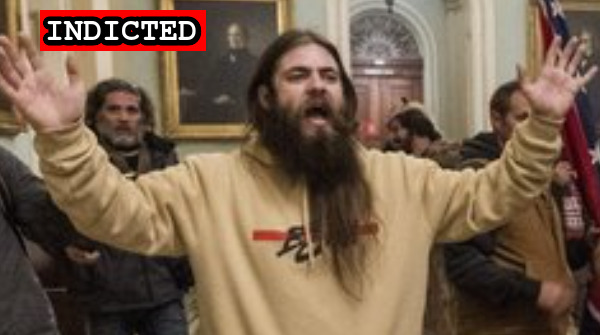
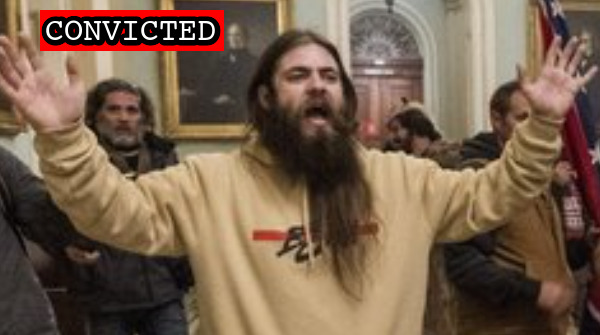
Latest schedule

Changed region(s): [[0.06, 0.0299, 0.39, 0.1493]]

diff --git a/docs/_suspects/riley-williams.md b/docs/_suspects/riley-williams.md
@@ -4,11 +4,11 @@ lastName: Williams
 hashtag: GreenShirtStairmaster
 aka:
 residence: Pennsylvania
-status: Indicted
+status: Convicted
 date: 2021-01-17
 charged: 2021-01-17
 indicted: 2021-10-06
-convicted:
+convicted: 2022-11-21
 acquitted:
 sentenced:
 dismissed:
@@ -16,8 +16,8 @@ deceased:
 plea_hearing:
 trial_date: 2022-11-07
 trial_type: Jury Trial
-sentencing:
-status_conference:
+sentencing: 2023-02-22
+status_conference: 2022-12-05
 age: 22
 occupation:
 affiliations:
@@ -31,7 +31,7 @@ raid:
 perpwalk:
 quote: "Upstairs, upstairs, upstairs"
 title: Riley Williams charged on January 17, 2021
-description: Click for latest case details. Suspects considered innocent until proven guilty.
+description: Convicted on November 21, 2022. Click for latest case details.
 author: seditiontrack
 layout: suspect
 published: true
@@ -40,8 +40,33 @@ caseName: USA v. WILLIAMS
 judge: Amy B. Jackson
 videos:
 charges:
+  - code: 18 USC § 231(a)(3)
+    title: Obstruction of Law Enforcement During Civil Disorder
+    url: https://www.law.cornell.edu/uscode/text/18/231
+    felony: true
+  - code: 18 USC § 111(a)(1)
+    title: Assaulting, resisting, or impeding certain officers or employees
+    url: https://www.law.cornell.edu/uscode/text/18/111
+    felony: true
+  - code: 18 USC § 1752(a)(1)
+    title: Entering a restricted building or grounds
+    url: https://www.law.cornell.edu/uscode/text/18/1752
+    felony: false
+  - code: 18 USC § 1752(a)(2)
+    title: Disorderly and disruptive conduct in a restricted building or grounds
+    url: https://www.law.cornell.edu/uscode/text/18/1752
+    felony: false
+  - code: 40 USC § 5104(e)(2)(D)
+    title: Disorderly Conduct in a Capitol Building
+    url: https://www.law.cornell.edu/uscode/text/40/5104
+    felony: false
+  - code: 40 USC § 5104(e)(2)(G)
+    title: Parading, demonstrating or picketing in a Capitol building
+    url: https://www.law.cornell.edu/uscode/text/40/5104
+    felony: false
 sentence:
 ---
+
 - [News Report](https://www.npr.org/sections/insurrection-at-the-capitol/2021/01/18/957979421/fbi-seeking-woman-who-may-have-stolen-speaker-pelosis-laptop)
 - [Statement of Facts](https://www.justice.gov/opa/page/file/1357051/download)
 - [Complaint](https://www.justice.gov/opa/page/file/1357056/download)

diff --git a/docs/_suspects/russell-alford.md b/docs/_suspects/russell-alford.md
@@ -40,25 +40,24 @@ caseName: USA v. ALFORD
 judge: Tanya S. Chutkan
 videos:
 charges:
-  - code: 18 USC § 1752(a)(1)
-    title: Entering a restricted building or grounds
-    url: https://www.law.cornell.edu/uscode/text/18/1752
-    felony: false
-  - code: 18 USC § 1752(a)(2)
-    title: Disorderly and disruptive conduct in a restricted building or grounds
-    url: https://www.law.cornell.edu/uscode/text/18/1752
-    felony: false
-  - code: 40 USC § 5104(e)(2)(D)
-    title: Disorderly Conduct in a Capitol Building
-    url: https://www.law.cornell.edu/uscode/text/40/5104
-    felony: false
-  - code: 40 USC § 5104(e)(2)(G)
-    title: Parading, demonstrating or picketing in a Capitol building
-    url: https://www.law.cornell.edu/uscode/text/40/5104
-    felony: false
+- code: 18 USC § 1752(a)(1)
+  title: Entering a restricted building or grounds
+  url: https://www.law.cornell.edu/uscode/text/18/1752
+  felony: false
+- code: 18 USC § 1752(a)(2)
+  title: Disorderly and disruptive conduct in a restricted building or grounds
+  url: https://www.law.cornell.edu/uscode/text/18/1752
+  felony: false
+- code: 40 USC § 5104(e)(2)(D)
+  title: Disorderly Conduct in a Capitol Building
+  url: https://www.law.cornell.edu/uscode/text/40/5104
+  felony: false
+- code: 40 USC § 5104(e)(2)(G)
+  title: Parading, demonstrating or picketing in a Capitol building
+  url: https://www.law.cornell.edu/uscode/text/40/5104
+  felony: false
 sentence:
 ---
-
 - [News Report](https://www.al.com/news/birmingham/2021/03/i-wondered-when-yall-were-going-to-show-up-7th-alabamian-arrested-in-us-capitol-riot.html)
 - [Statement of Facts](https://www.justice.gov/usao-dc/case-multi-defendant/file/1393326/download)
 - [Incriminating Evidence (VIDEO)](https://www.youtube.com/watch?v=19phOT7WTyc)

diff --git a/docs/_suspects/william-watson.md b/docs/_suspects/william-watson.md
@@ -4,11 +4,11 @@ lastName: Watson
 hashtag: WilliamWatson
 aka:
 residence: Alabama
-status: Indicted
+status: Convicted
 date: 2021-01-11
 charged: 2021-01-11
 indicted: 2021-08-06
-convicted:
+convicted: 2022-11-18
 acquitted:
 sentenced:
 dismissed:
@@ -16,7 +16,7 @@ deceased:
 plea_hearing:
 trial_date: 2022-11-18
 trial_type: Stipulated Bench Trial
-sentencing:
+sentencing: 2023-03-09
 status_conference:
 age: 23
 occupation:
@@ -31,7 +31,7 @@ raid:
 perpwalk:
 quote:
 title: William Watson charged on January 11, 2021
-description: Click for latest case details. Suspects considered innocent until proven guilty.
+description: Convicted on November 18, 2022. Click for latest case details.
 author: seditiontrack
 layout: suspect
 published: true
@@ -40,9 +40,17 @@ caseName: USA v. WATSON
 judge: Reggie B. Walton
 videos:
 charges:
+  - code: 18 USC § 1512(c)(2)
+    title: Obstruction of an Official Proceeding
+    url: https://www.law.cornell.edu/uscode/text/18/1512
+    felony: true
+  - code: 18 USC § 1752(a)(2) and b(1)(A)
+    title: Disorderly and Disruptive Conduct in a Restricted Building or Grounds (w/a deadly weapon)
+    url: https://www.law.cornell.edu/uscode/text/18/1752
+    felony: true
 sentence:
 ---
 
 - [News Report](https://www.wate.com/news/auburn-man-in-federal-custody-following-u-s-capitol-riot/)
-- [Statement of Facts](https://www.justice.gov/usao-dc/case-multi-defendant/file/1553301/download)
+- [Statement of Facts (Stipulated)](https://www.justice.gov/usao-dc/case-multi-defendant/file/1553301/download)
 - [Indictment](https://www.justice.gov/usao-dc/case-multi-defendant/file/1423471/download)

diff --git a/docs/_suspects/chase-allen.md b/docs/_suspects/chase-allen.md
@@ -16,7 +16,7 @@ deceased:
 plea_hearing: 2022-11-22
 trial_date:
 trial_type:
-sentencing:
+sentencing: 2023-03-09
 status_conference: 2022-11-10
 age:
 occupation:
@@ -37,16 +37,15 @@ layout: suspect
 published: true
 caseNumber: 22-cr-0361
 caseName: USA v. ALLEN
-judge: G. M. Harvey
+judge: Dabney L. Friedrich
 videos:
 charges:
-  - code: 40 USC § 5104(e)(2)(F)
-    title: Act of physical violence on Capitol grounds
-    url: https://www.law.cornell.edu/uscode/text/40/5104
-    felony: false
+- code: 40 USC § 5104(e)(2)(F)
+  title: Act of physical violence on Capitol grounds
+  url: https://www.law.cornell.edu/uscode/text/40/5104
+  felony: false
 sentence:
 ---
-
 - [News Report](https://boston.cbslocal.com/2021/06/30/capitol-riot-arrests-fbi-boston-noah-bacon-chase-allen-somerville-seekonk/)
 - [Statement of Facts](https://www.justice.gov/usao-dc/case-multi-defendant/file/1408341/download)
 - [Information](https://www.justice.gov/usao-dc/case-multi-defendant/file/1553451/download)

diff --git a/docs/_suspects/eric-gerwatowski.md b/docs/_suspects/eric-gerwatowski.md
@@ -16,7 +16,7 @@ deceased:
 plea_hearing: 2022-11-22
 trial_date:
 trial_type:
-sentencing:
+sentencing: 2023-03-02
 status_conference:
 age: 31
 occupation:
@@ -40,13 +40,12 @@ caseName: USA v. GERWATOWSKI
 judge: Jia M. Cobb
 videos:
 charges:
-  - code: 18 USC § 231(a)(3)
-    title: Obstruction of Law Enforcement During Civil Disorder
-    url: https://www.law.cornell.edu/uscode/text/18/231
-    felony: true
+- code: 18 USC § 231(a)(3)
+  title: Obstruction of Law Enforcement During Civil Disorder
+  url: https://www.law.cornell.edu/uscode/text/18/231
+  felony: true
 sentence:
 ---
-
 - [News Report](https://www.newsweek.com/feds-arrest-jan-6-rioter-who-allegedly-grabbed-door-shouted-lets-go-1677359)
 - [Complaint](https://www.justice.gov/usao-dc/case-multi-defendant/file/1470321/download)
 - [Statement of Facts](https://www.justice.gov/usao-dc/case-multi-defendant/file/1470326/download)

diff --git a/docs/_suspects/john-sullivan.md b/docs/_suspects/john-sullivan.md
@@ -17,7 +17,7 @@ plea_hearing:
 trial_date: 2023-10-25
 trial_type: Jury Trial
 sentencing:
-status_conference:
+status_conference: 2023-02-22
 age: 26
 occupation:
 affiliations:
@@ -37,7 +37,7 @@ layout: suspect
 published: true
 caseNumber: 21-cr-0078
 caseName: USA v. SULLIVAN
-judge: Emmet G. Sullivan
+judge: Royce C. Lamberth
 videos:
 charges:
 sentence:

diff --git a/docs/_suspects/corinne-montoni.md b/docs/_suspects/corinne-montoni.md
@@ -17,7 +17,7 @@ plea_hearing:
 trial_date:
 trial_type:
 sentencing:
-status_conference: 2022-11-22
+status_conference: 2022-12-20
 age: 31
 occupation:
 affiliations:
@@ -37,7 +37,7 @@ layout: suspect
 published: true
 caseNumber: 21-mj-0289
 caseName: USA v. MONTONI
-judge: Zia M. Faruqui
+judge: Moxila A. Upadhyaya
 videos:
 charges:
 sentence:

diff --git a/docs/_suspects/salvatore-vassallo.md b/docs/_suspects/salvatore-vassallo.md
@@ -17,7 +17,7 @@ plea_hearing:
 trial_date:
 trial_type:
 sentencing:
-status_conference: 2023-01-05
+status_conference: 2023-01-19
 age: 59
 occupation:
 affiliations:
@@ -37,7 +37,7 @@ layout: suspect
 published: true
 caseNumber: 22-cr-0325
 caseName: USA v. VASSALLO
-judge: G. M. Harvey
+judge: Amy B. Jackson
 videos:
 charges:
 sentence:

diff --git a/docs/_suspects/ryan-nichols.md b/docs/_suspects/ryan-nichols.md
@@ -17,7 +17,7 @@ plea_hearing:
 trial_date: 2022-11-01
 trial_type:
 sentencing:
-status_conference: 2022-09-21
+status_conference: 2022-12-13
 age: 30
 occupation: U.S. Marines (Former)
 affiliations:

diff --git a/docs/_suspects/deborah-sandoval.md b/docs/_suspects/deborah-sandoval.md
@@ -17,7 +17,7 @@ plea_hearing:
 trial_date: 2022-12-14
 trial_type: Bench Trial
 sentencing:
-status_conference: 2022-11-21
+status_conference: 2022-12-09
 age: 54
 occupation:
 affiliations:

diff --git a/docs/_suspects/salvador-sandoval.md b/docs/_suspects/salvador-sandoval.md
@@ -17,7 +17,7 @@ plea_hearing:
 trial_date: 2022-12-14
 trial_type: Bench Trial
 sentencing:
-status_conference: 2022-11-21
+status_conference: 2022-12-09
 age: 23
 occupation:
 affiliations:

diff --git a/docs/_suspects/brandon-fellows.md b/docs/_suspects/brandon-fellows.md
@@ -17,7 +17,7 @@ plea_hearing:
 trial_date: 2023-02-13
 trial_type: Jury Trial
 sentencing:
-status_conference: 2022-11-22
+status_conference: 2023-02-03
 age: 26
 occupation:
 affiliations:
